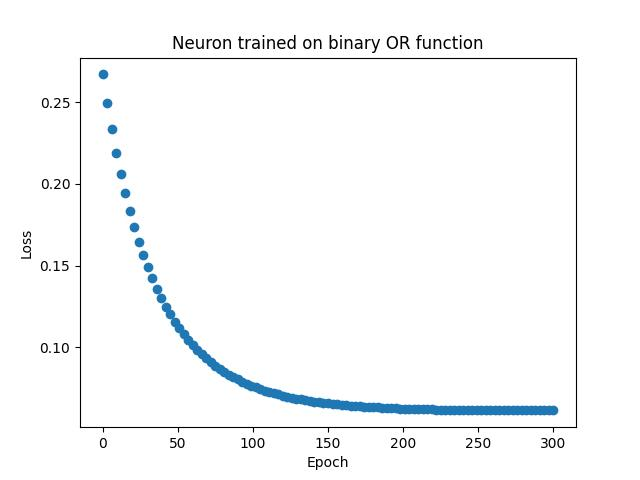
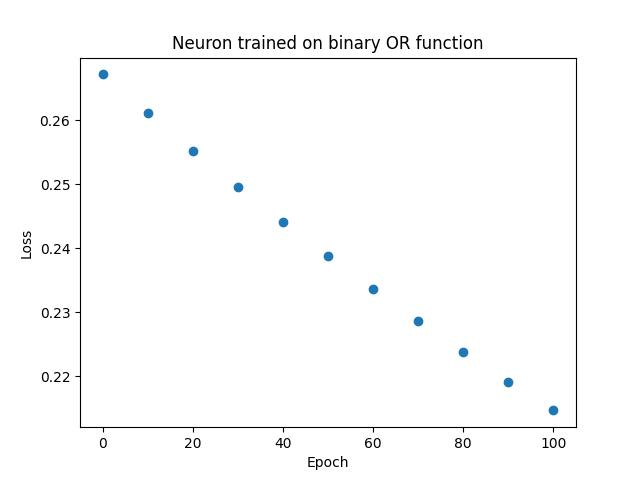
working python neuron
```
~/cudagrad/cudagrad$ python -m neuron
epoch=0 0.2671228349208832
0 OR 0 =  0 🔥
0 OR 1 =  1 🔥
1 OR 0 =  1 🔥
1 OR 1 =  2 🌧
epoch=10 0.2610630393028259
0 OR 0 =  0 🔥
0 OR 1 =  1 🔥
1 OR 0 =  1 🔥
1 OR 1 =  2 🌧
epoch=20 0.25520190596580505
0 OR 0 =  0 🔥
0 OR 1 =  1 🔥
1 OR 0 =  1 🔥
1 OR 1 =  2 🌧
epoch=30 0.24953149259090424
0 OR 0 =  0 🔥
0 OR 1 =  1 🔥
1 OR 0 =  1 🔥
1 OR 1 =  1 🔥
epoch=40 0.24404561519622803
0 OR 0 =  0 🔥
0 OR 1 =  1 🔥
1 OR 0 =  1 🔥
1 OR 1 =  1 🔥
epoch=50 0.238737553358078
0 OR 0 =  0 🔥
0 OR 1 =  1 🔥
1 OR 0 =  1 🔥
1 OR 1 =  1 🔥
epoch=60 0.2336004078388214
0 OR 0 =  0 🔥
0 OR 1 =  1 🔥
1 OR 0 =  1 🔥
1 OR 1 =  1 🔥
epoch=70 0.22862857580184937
0 OR 0 =  0 🔥
0 OR 1 =  1 🔥
1 OR 0 =  1 🔥
1 OR 1 =  1 🔥
epoch=80 0.22381600737571716
0 OR 0 =  0 🔥
0 OR 1 =  1 🔥
1 OR 0 =  1 🔥
1 OR 1 =  1 🔥
epoch=90 0.21915718913078308
0 OR 0 =  0 🔥
0 OR 1 =  1 🔥
1 OR 0 =  1 🔥
1 OR 1 =  1 🔥
epoch=100 0.21464665234088898
0 OR 0 =  0 🔥
0 OR 1 =  1 🔥
1 OR 0 =  1 🔥
1 OR 1 =  1 🔥
```

diff --git a/cudagrad/neuron.py b/cudagrad/neuron.py
@@ -20,8 +20,8 @@ if __name__ == "__main__":
     inputs = [[0, 0], [0, 1], [1, 0], [1, 1]]
     targets = [0, 1, 1, 1]
     
-    EPOCHS = 300
-    lr = 0.001
+    EPOCHS = 100
+    lr = 0.0001
     epochs = []
     losses = []
     model = Linear(2, 1)
@@ -34,15 +34,18 @@ if __name__ == "__main__":
             model.w.data[[0, 0]] = model.w.data[[0, 0]].item() + (-lr * model.w.grad[0])
             model.w.data[[0, 1]] = model.w.data[[0, 1]].item() + (-lr * model.w.grad[1])
             model.b.data[[0, 0]] = model.b.data[[0, 0]].item() + (-lr * model.b.grad[0])
-        if epoch % (EPOCHS // 100) == 0:
+        if epoch % (EPOCHS // 10) == 0:
             print(f"{epoch=}", f"{loss.item()}")
             epochs.append(epoch)
             losses.append(loss.item())
-            print(model(Tensor([2, 1], inputs[0])).item(), round(model(Tensor([2, 1], inputs[0])).item()) == targets[0])
-            print(model(Tensor([2, 1], inputs[1])).item(), round(model(Tensor([2, 1], inputs[1])).item()) == targets[1])
-            print(model(Tensor([2, 1], inputs[2])).item(), round(model(Tensor([2, 1], inputs[2])).item()) == targets[2])
-            print(model(Tensor([2, 1], inputs[3])).item(), round(model(Tensor([2, 1], inputs[3])).item()) == targets[3])
-            # print(model(Tensor([2, 1], inputs[i])))
+            out0 = round(model(Tensor([2, 1], inputs[0])).item())
+            out1 = round(model(Tensor([2, 1], inputs[1])).item())
+            out2 = round(model(Tensor([2, 1], inputs[2])).item())
+            out3 = round(model(Tensor([2, 1], inputs[3])).item())
+            print("0 OR 0 = ", out0, "🔥" if out0 == 0 else "🌧")
+            print("0 OR 1 = ", out1, "🔥" if out1 == 1 else "🌧")
+            print("1 OR 0 = ", out2, "🔥" if out2 == 1 else "🌧")
+            print("1 OR 1 = ", out3, "🔥" if out3 == 1 else "🌧")
 
 plt.scatter(epochs, losses)
 plt.title("Neuron trained on binary OR function")
